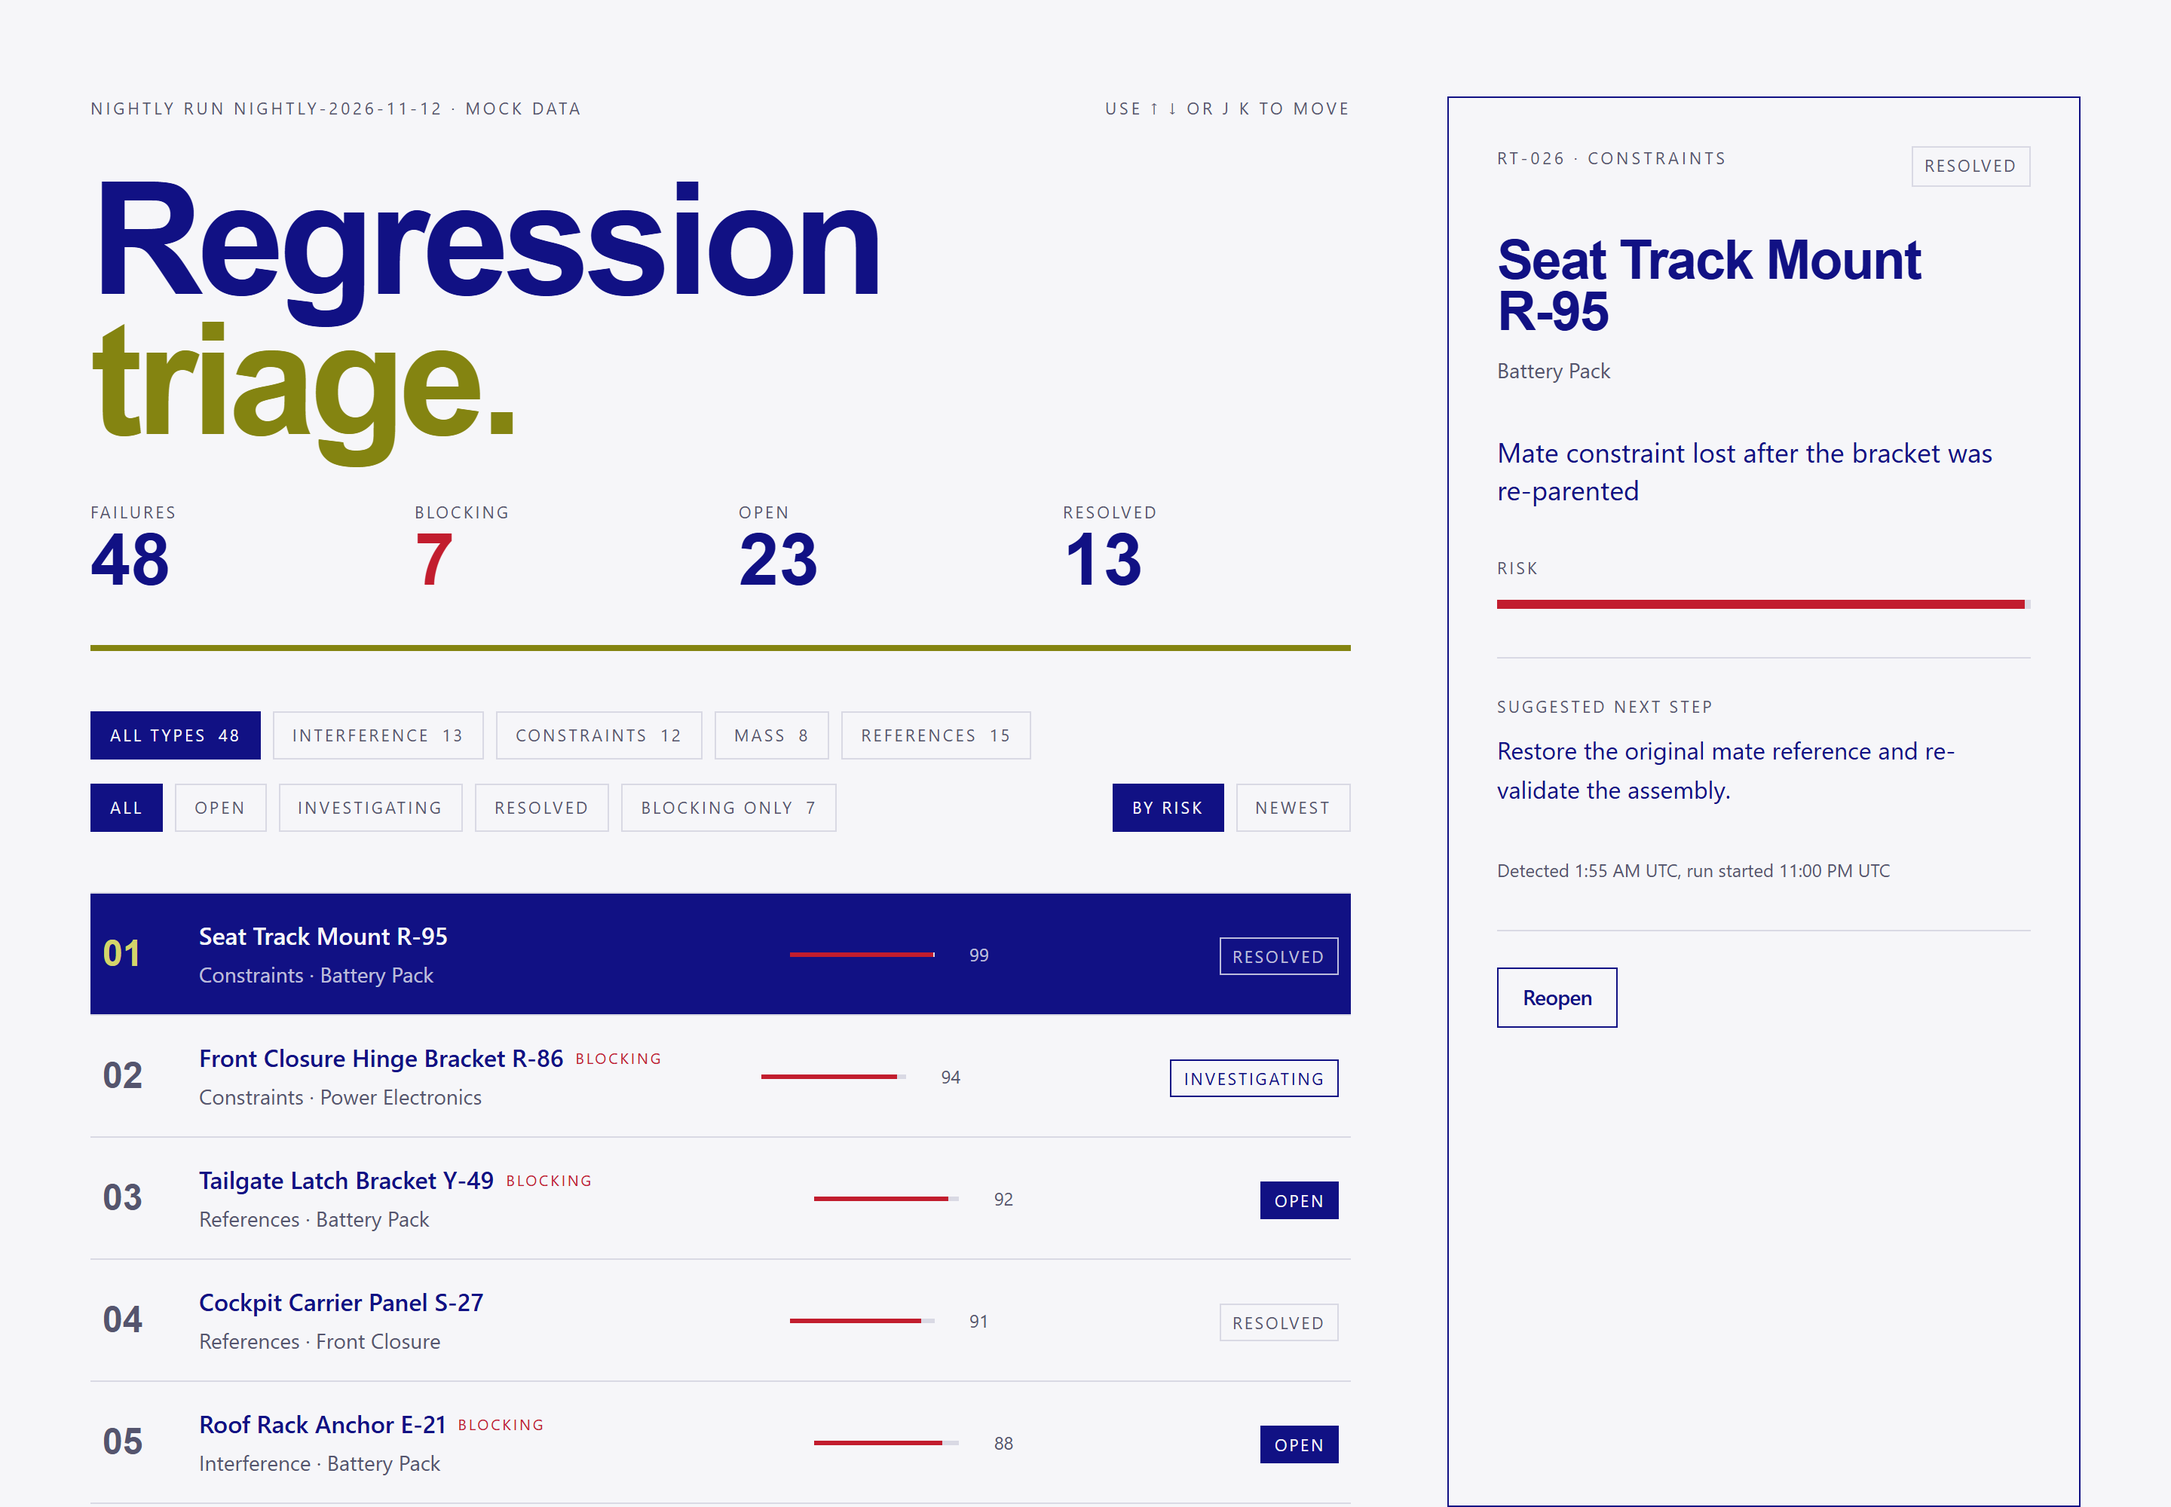
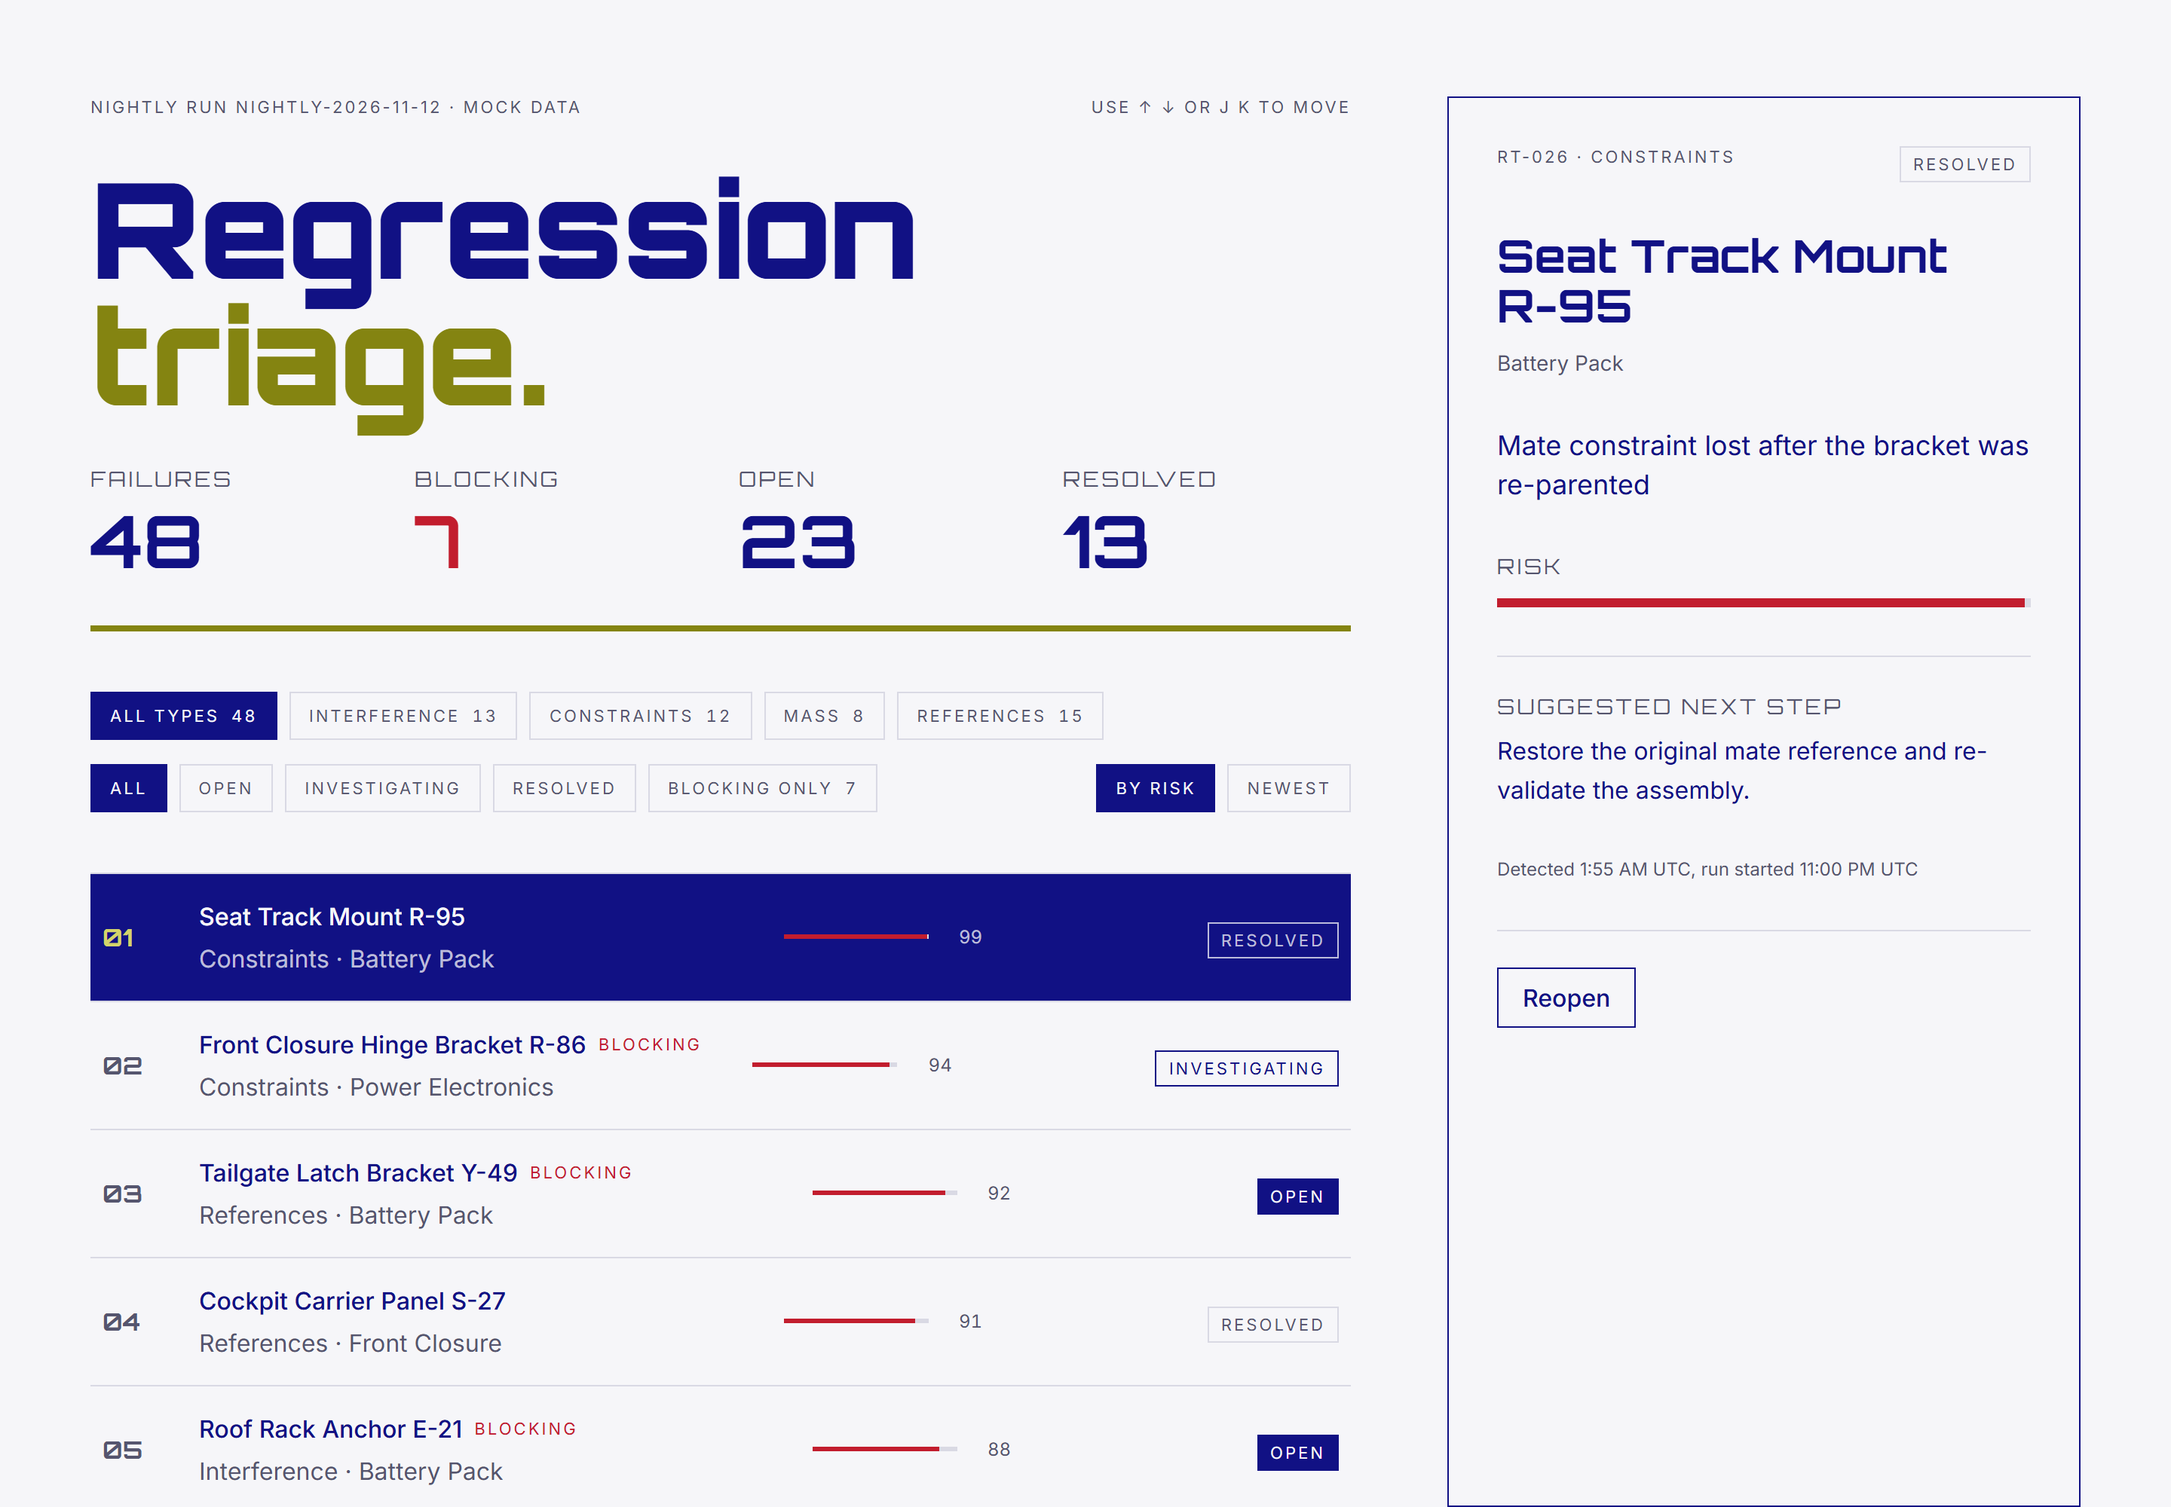
Phase 2: Orbitron display type with Inter body
- @fontsource/orbitron (400, 700, 900) and @fontsource/inter (400, 500),
  Latin subsets only, bundled locally with no runtime font requests
- Named type scale in tokens.json and @theme (display-xl to micro)
- Orbitron only at 14px and above: title, stats, detail heading, list
  index numbers, section labels. Chips, pills, and rows stay in Inter
- label-display and label-micro utilities for uppercase labels
- tokens.test.ts fails if tokens.json and @theme drift apart

diff --git a/src/components/DetailPanel.tsx b/src/components/DetailPanel.tsx
@@ -49,32 +49,32 @@ export function DetailPanel({ failure, pending, error, onStatus }: DetailPanelPr
             className="flex flex-col gap-8 p-8"
           >
             <div className="flex items-start justify-between gap-4">
-              <p className="text-[11px] uppercase tracking-[0.18em] text-muted">
+              <p className="label-micro text-muted">
                 {failure.id} · {failure.group}
               </p>
               <StatusPill status={failure.status} />
             </div>
 
             <div>
-              <h2 className="font-display text-4xl font-bold leading-[0.95] tracking-[-0.03em]">
+              <h2 className="font-display text-display-md font-bold">
                 <PartTitle name={failure.part} />
               </h2>
-              <p className="mt-3 text-sm text-muted">{failure.assembly}</p>
+              <p className="mt-3 text-body-sm text-muted">{failure.assembly}</p>
             </div>
 
-            <p className="text-lg leading-snug">{failure.summary}</p>
+            <p className="text-body-lg">{failure.summary}</p>
 
             <div className="flex flex-col gap-3">
-              <p className="text-[11px] uppercase tracking-[0.14em] text-muted">Risk</p>
+              <p className="label-display text-muted">Risk</p>
               <RiskBar risk={failure.risk} size="lg" />
             </div>
 
             <div className="border-t border-line pt-6">
-              <p className="text-[11px] uppercase tracking-[0.14em] text-muted">Suggested next step</p>
+              <p className="label-display text-muted">Suggested next step</p>
               <p className="mt-2 leading-relaxed">{failure.suggestedAction}</p>
             </div>
 
-            <p className="text-xs text-muted">
+            <p className="text-caption text-muted">
               Detected {timeFormat.format(new Date(failure.detectedAt))}, run started{' '}
               {timeFormat.format(new Date(RUN_START))}
             </p>
@@ -97,7 +97,7 @@ export function DetailPanel({ failure, pending, error, onStatus }: DetailPanelPr
             </div>
 
             {error && (
-              <p role="alert" className="text-sm text-risk-high">
+              <p role="alert" className="text-body-sm text-risk-high">
                 {error}
               </p>
             )}
@@ -110,8 +110,8 @@ export function DetailPanel({ failure, pending, error, onStatus }: DetailPanelPr
             exit={{ opacity: 0 }}
             className="flex min-h-[320px] flex-col justify-between p-8"
           >
-            <p className="font-display text-3xl font-bold leading-tight">Select a failure to see what to do next.</p>
-            <p className="text-sm text-muted">Use the arrow keys or J and K to move through the list.</p>
+            <p className="font-display text-display-md font-bold">No failure selected.</p>
+            <p className="text-body-sm text-muted">Pick a row, or use the arrow keys or J and K to move through the list.</p>
           </motion.div>
         )}
       </AnimatePresence>

diff --git a/src/components/FailureList.tsx b/src/components/FailureList.tsx
@@ -25,8 +25,8 @@ export function FailureList({ failures, selectedId, onSelect }: FailureListProps
   if (failures.length === 0) {
     return (
       <div className="border border-dashed border-line p-10 text-center">
-        <p className="font-display text-2xl font-bold">Nothing matches these filters.</p>
-        <p className="mt-2 text-sm text-muted">Clear a filter to see the rest of the run.</p>
+        <p className="font-display text-display-sm font-bold">Nothing matches these filters.</p>
+        <p className="mt-2 text-body-sm text-muted">Clear a filter to see the rest of the run.</p>
       </div>
     )
   }
@@ -54,7 +54,7 @@ export function FailureList({ failures, selectedId, onSelect }: FailureListProps
                 selected ? 'bg-primary text-paper' : 'hover:bg-primary/5',
               )}
             >
-              <span className={cn('font-display text-2xl font-bold tabular-nums', selected ? 'text-accent-soft' : 'text-muted')}>
+              <span className={cn('font-display text-display-sm font-bold tabular-nums', selected ? 'text-accent-soft' : 'text-muted')}>
                 {String(index + 1).padStart(2, '0')}
               </span>
 
@@ -64,7 +64,7 @@ export function FailureList({ failures, selectedId, onSelect }: FailureListProps
                   {isBlocking(failure) && (
                     <span
                       className={cn(
-                        'shrink-0 text-[10px] uppercase tracking-[0.14em]',
+                        'label-micro shrink-0',
                         selected ? 'text-paper' : 'text-risk-high',
                       )}
                     >
@@ -72,7 +72,7 @@ export function FailureList({ failures, selectedId, onSelect }: FailureListProps
                     </span>
                   )}
                 </span>
-                <span className={cn('mt-1 block truncate text-sm', selected ? 'text-paper/75' : 'text-muted')}>
+                <span className={cn('mt-1 block truncate text-body-sm', selected ? 'text-paper/75' : 'text-muted')}>
                   {failure.group} · {failure.assembly}
                 </span>
               </span>

diff --git a/src/components/Header.tsx b/src/components/Header.tsx
@@ -12,15 +12,15 @@ export function Header({ failures }: HeaderProps) {
   return (
     <header className="flex flex-col gap-8 border-b-4 border-accent pb-8">
       <div className="flex items-baseline justify-between gap-6">
-        <p className="text-[11px] uppercase tracking-[0.18em] text-muted">
+        <p className="label-micro text-muted">
           Nightly run {RUN_ID} · Mock data
         </p>
-        <p className="hidden text-[11px] uppercase tracking-[0.18em] text-muted sm:block">
+        <p className="label-micro hidden text-muted sm:block">
           Use ↑ ↓ or J K to move
         </p>
       </div>
 
-      <h1 className="font-display text-[clamp(3rem,8vw,6.5rem)] font-bold leading-[0.9] tracking-[-0.04em]">
+      <h1 className="font-display text-display-xl font-black tracking-[-0.01em]">
         Regression
         <br />
         {/* Olive is only used at display size: 3.68:1 on paper passes the 3:1 large-text minimum. */}
@@ -40,12 +40,12 @@ export function Header({ failures }: HeaderProps) {
 function Stat({ label, value, emphasis = false }: { label: string; value: number; emphasis?: boolean }) {
   return (
     <div>
-      <dt className="text-[11px] uppercase tracking-[0.14em] text-muted">{label}</dt>
+      <dt className="label-display text-muted">{label}</dt>
       <dd
         className={
           emphasis
-            ? 'font-display text-5xl font-bold tabular-nums text-risk-high'
-            : 'font-display text-5xl font-bold tabular-nums'
+            ? 'mt-2 font-display text-stat font-bold tabular-nums text-risk-high'
+            : 'mt-2 font-display text-stat font-bold tabular-nums'
         }
       >
         {value}

diff --git a/src/index.css b/src/index.css
@@ -15,8 +15,49 @@
   --color-transparent: transparent;
   --color-current: currentColor;
 
-  --font-display: "Helvetica Neue", Helvetica, Arial, sans-serif;
+  --font-display: Orbitron, "Segoe UI", ui-sans-serif, system-ui, sans-serif;
   --font-sans: Inter, ui-sans-serif, system-ui, -apple-system, "Segoe UI", sans-serif;
+
+  /* Type scale. Orbitron sizes stop at 14px (label). Anything smaller is Inter. */
+  --text-display-xl: clamp(2.25rem, 7vw, 5.5rem);
+  --text-display-xl--line-height: 0.95;
+  --text-stat: 3rem;
+  --text-stat--line-height: 1;
+  --text-display-md: 1.875rem;
+  --text-display-md--line-height: 1.1;
+  --text-display-sm: 1.5rem;
+  --text-display-sm--line-height: 1.15;
+  --text-label: 0.875rem;
+  --text-label--line-height: 1.25;
+  --text-body-lg: 1.125rem;
+  --text-body-lg--line-height: 1.45;
+  --text-body: 1rem;
+  --text-body--line-height: 1.5;
+  --text-body-sm: 0.875rem;
+  --text-body-sm--line-height: 1.4;
+  --text-caption: 0.75rem;
+  --text-caption--line-height: 1.35;
+  --text-micro: 0.6875rem;
+  --text-micro--line-height: 1.3;
+}
+
+/* Short uppercase label in Orbitron, at its 14px floor. */
+@utility label-display {
+  font-family: var(--font-display);
+  font-size: var(--text-label);
+  line-height: var(--text-label--line-height);
+  font-weight: 400;
+  letter-spacing: 0.12em;
+  text-transform: uppercase;
+}
+
+/* Small uppercase metadata in Inter, for chips, pills, and run info below 14px. */
+@utility label-micro {
+  font-family: var(--font-sans);
+  font-size: var(--text-micro);
+  line-height: var(--text-micro--line-height);
+  letter-spacing: 0.14em;
+  text-transform: uppercase;
 }
 
 @layer base {

diff --git a/src/styles/tokens.test.ts b/src/styles/tokens.test.ts
@@ -1,0 +1,37 @@
+/// <reference types="node" />
+import { readFileSync } from 'node:fs'
+import { join } from 'node:path'
+import { describe, expect, it } from 'vitest'
+import tokens from './tokens.json'
+
+// tokens.json is the source of truth. This keeps the @theme block in index.css from drifting.
+// Read from disk because Vitest stubs CSS imports.
+const css = readFileSync(join(process.cwd(), 'src/index.css'), 'utf8')
+const theme = css.slice(css.indexOf('@theme'), css.indexOf('}', css.indexOf('@theme')))
+
+function themeVar(name: string) {
+  const match = theme.match(new RegExp(`--${name}:\s*([^;]+);`))
+  return match?.[1].trim()
+}
+
+function flatten(node: Record<string, unknown>, prefix = ''): [string, string][] {
+  return Object.entries(node).flatMap(([key, value]) => {
+    const name = prefix ? `${prefix}-${key}` : key
+    const v = value as { value?: string }
+    return typeof v.value === 'string' ? [[name, v.value] as [string, string]] : flatten(v as Record<string, unknown>, name)
+  })
+}
+
+describe('design tokens', () => {
+  it.each(flatten(tokens.color))('color %s matches @theme', (name, value) => {
+    expect(themeVar(`color-${name}`)?.toLowerCase()).toBe(value.toLowerCase())
+  })
+
+  it.each(flatten(tokens.font))('font %s matches @theme', (name, value) => {
+    expect(themeVar(`font-${name}`)).toBe(value)
+  })
+
+  it.each(flatten(tokens.text))('text %s matches @theme', (name, value) => {
+    expect(themeVar(`text-${name}`)).toBe(value)
+  })
+})

diff --git a/src/App.tsx b/src/App.tsx
@@ -64,7 +64,7 @@ export default function App() {
   if (isPending) {
     return (
       <main className="flex h-full items-center justify-center">
-        <p className="font-display text-3xl font-bold" role="status">
+        <p className="font-display text-display-md font-bold" role="status">
           Loading the run…
         </p>
       </main>
@@ -74,7 +74,7 @@ export default function App() {
   if (isError) {
     return (
       <main className="flex h-full flex-col items-center justify-center gap-4">
-        <p className="font-display text-3xl font-bold">Couldn’t load this run.</p>
+        <p className="font-display text-display-md font-bold">Couldn’t load this run.</p>
         <Button variant="solid" onClick={() => refetch()}>
           Try again
         </Button>

diff --git a/src/components/StatusPill.tsx b/src/components/StatusPill.tsx
@@ -11,7 +11,7 @@ export function StatusPill({ status }: { status: Status }) {
   return (
     <span
       className={cn(
-        'border px-2 py-1 text-[11px] uppercase tracking-[0.12em]',
+        'label-micro whitespace-nowrap border px-2 py-1',
         status === 'open' && 'border-primary bg-primary text-paper group-aria-selected:border-paper group-aria-selected:bg-paper group-aria-selected:text-primary',
         status === 'investigating' && 'border-primary text-primary group-aria-selected:border-paper group-aria-selected:text-paper',
         status === 'resolved' && 'border-line text-muted group-aria-selected:border-paper/75 group-aria-selected:text-paper/75',

diff --git a/src/main.tsx b/src/main.tsx
@@ -2,6 +2,12 @@ import { StrictMode } from 'react'
 import { createRoot } from 'react-dom/client'
 import { QueryClient, QueryClientProvider } from '@tanstack/react-query'
 import App from './App'
+// Fonts are bundled locally (no runtime requests to Google Fonts). Latin subset, only the weights in use.
+import '@fontsource/orbitron/latin-400.css'
+import '@fontsource/orbitron/latin-700.css'
+import '@fontsource/orbitron/latin-900.css'
+import '@fontsource/inter/latin-400.css'
+import '@fontsource/inter/latin-500.css'
 import './index.css'
 
 const queryClient = new QueryClient({

diff --git a/src/components/ui/Button.tsx b/src/components/ui/Button.tsx
@@ -16,7 +16,7 @@ export const Button = forwardRef<HTMLButtonElement, ButtonProps>(function Button
       ref={ref}
       type={type}
       className={cn(
-        'inline-flex h-10 items-center gap-2 px-4 text-sm font-medium tracking-tight transition-colors',
+        'inline-flex h-10 items-center gap-2 px-4 text-body-sm font-medium transition-colors',
         'disabled:pointer-events-none disabled:opacity-40',
         variant === 'solid'
           ? 'bg-primary text-paper hover:bg-primary/85'

diff --git a/src/components/ui/Chip.tsx b/src/components/ui/Chip.tsx
@@ -15,7 +15,7 @@ export function Chip({ active, onClick, children, count }: ChipProps) {
       aria-pressed={active}
       onClick={onClick}
       className={cn(
-        'h-8 border px-3 text-[11px] uppercase tracking-[0.14em] transition-colors',
+        'label-micro h-8 border px-3 transition-colors',
         active
           ? 'border-primary bg-primary text-paper'
           : 'border-line text-muted hover:border-primary hover:text-primary',

diff --git a/src/components/RiskBar.tsx b/src/components/RiskBar.tsx
@@ -37,7 +37,7 @@ export function RiskBar({ risk, className, size = 'sm' }: RiskBarProps) {
         />
       </div>
       {size === 'sm' && (
-        <span className="w-6 text-right text-xs tabular-nums text-muted group-aria-selected:text-paper/75">{risk}</span>
+        <span className="w-6 text-right text-caption tabular-nums text-muted group-aria-selected:text-paper/75">{risk}</span>
       )}
     </div>
   )
